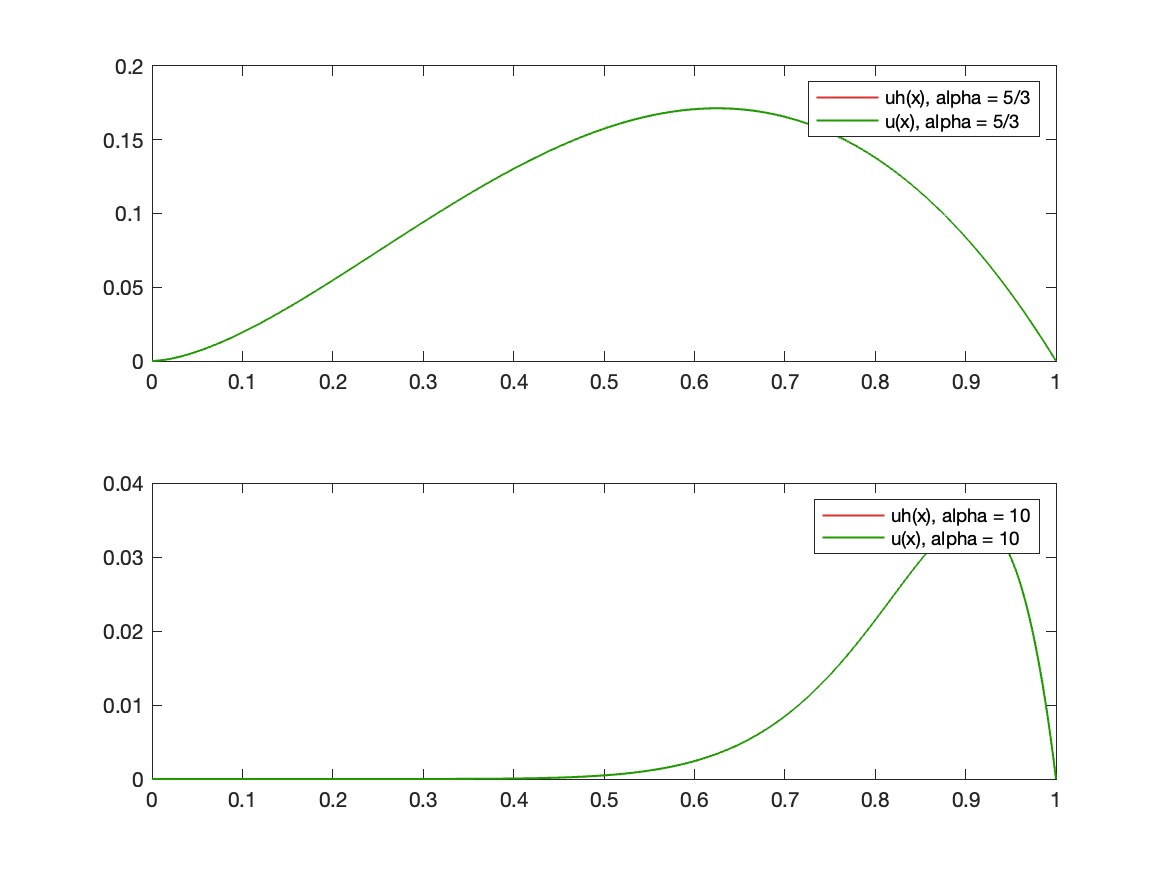
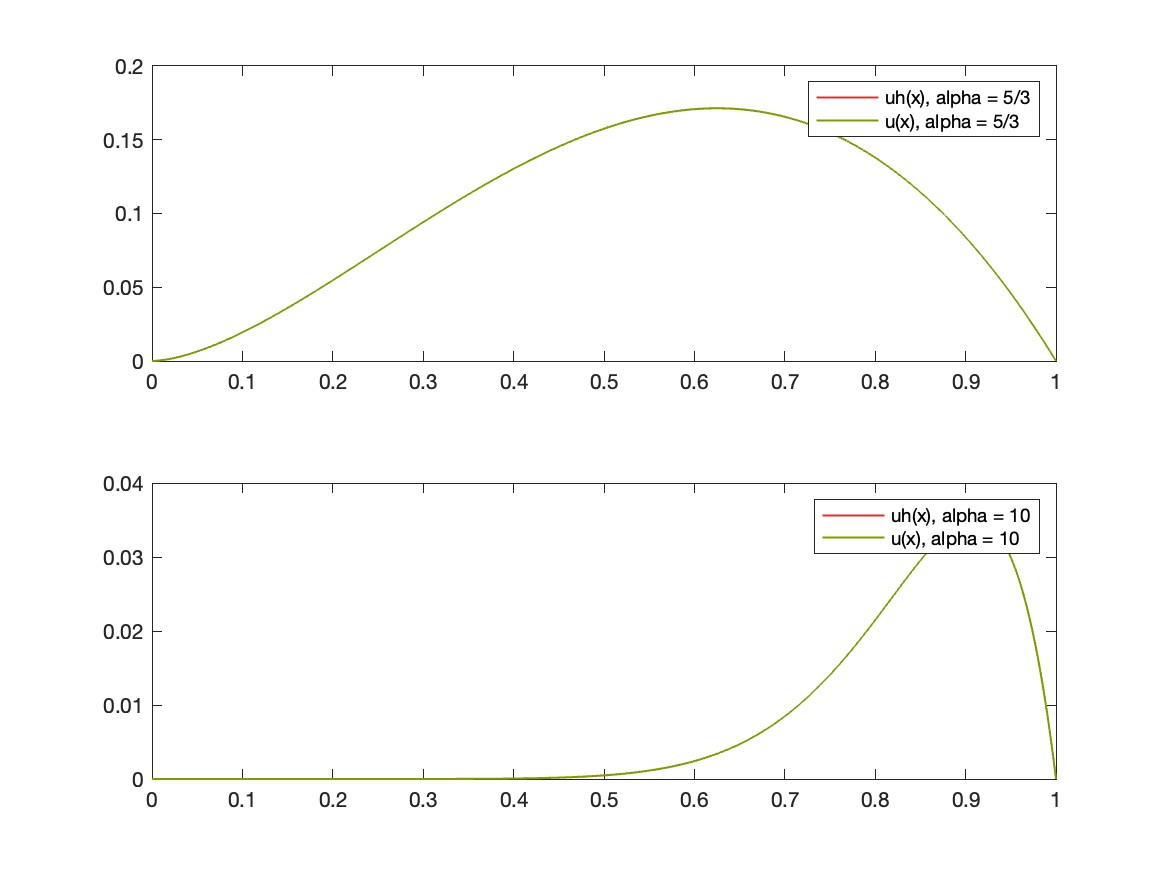
Updated colors

diff --git a/report/report.tex b/report/report.tex
@@ -57,7 +57,7 @@
 \fancyhf{}
 \fancyhead[R]{Andrea Di Antonio}
 \fancyhead[L]{\reporttitle}
-\fancyfoot[C]{Page \thepage}
+\fancyfoot[C]{\thepage}
 
 \title{\reporttitle}
 \author{Andrea Di Antonio, 858798 \\ \hyperlink{mailto:a.diantonio1@campus.unimib.it}{a.diantonio1@campus.unimib.it}}
@@ -66,6 +66,7 @@
 \setcounter{tocdepth}{2}
 
 \begin{document}
+    \pagenumbering{roman}
 	\maketitle
 	\thispagestyle{fancy}
 
@@ -79,6 +80,7 @@
     \tableofcontents
 
     \newpage
+    \pagenumbering{arabic}
     \section{Problem Introduction}
     \input{sections/introduction.tex}
 

diff --git a/report/sections/fem.tex b/report/sections/fem.tex
@@ -34,7 +34,7 @@ where $A_{ij} = a(\phi_i, \phi_j)$, $f_i = (f, \phi_i)_{0, \Omega}$.
 
 Given what we've said on \nameref{sob_regularity}, and by the following corollary to the \textit{Deny-Lions' Lemma}:
 
-\begin{theorem}[Deny-Lions corollary]
+\begin{theorem}[Deny-Lions' corollary]
 	Let $u, u_h$ be the solution respectively to the weak formulation of a Poisson problem and its associated order k Lagrangian FEM with shape-regular and quasi-uniform mesh $T_h$. \\ 
 	If $u \in H^s(\Omega)$, then $\exists C$ such that:
 	\begin{gather}

diff --git a/tests/graphical.m b/tests/graphical.m
@@ -15,7 +15,7 @@ function graphical
     uMesh = builder(2048);
     [uh, ~, ~] = solver(uMesh, f);
     
-    green = [33, 153, 0] / 255;
+    green = [133, 153, 0] / 255;
 	red = [220, 50, 47] / 255;
     
     tiledlayout(2, 1);

diff --git a/tests/errorTrend.m b/tests/errorTrend.m
@@ -78,7 +78,7 @@ function errorTrend
 
 	%% Graphics.
 	
-	green = [33, 153, 0] / 255;
+	green = [133, 153, 0] / 255;
 	red = [220, 50, 47] / 255;
 
 	loglog(sizes(1, :), errors(1, :), ...

diff --git a/tests/comparison.m b/tests/comparison.m
@@ -125,7 +125,7 @@ function comparison
 
 	%% Graphics.
 	
-	green = [33, 153, 0] / 255;
+	green = [133, 153, 0] / 255;
 	red = [220, 50, 47] / 255;
 
 	tiledlayout(2, 1);
